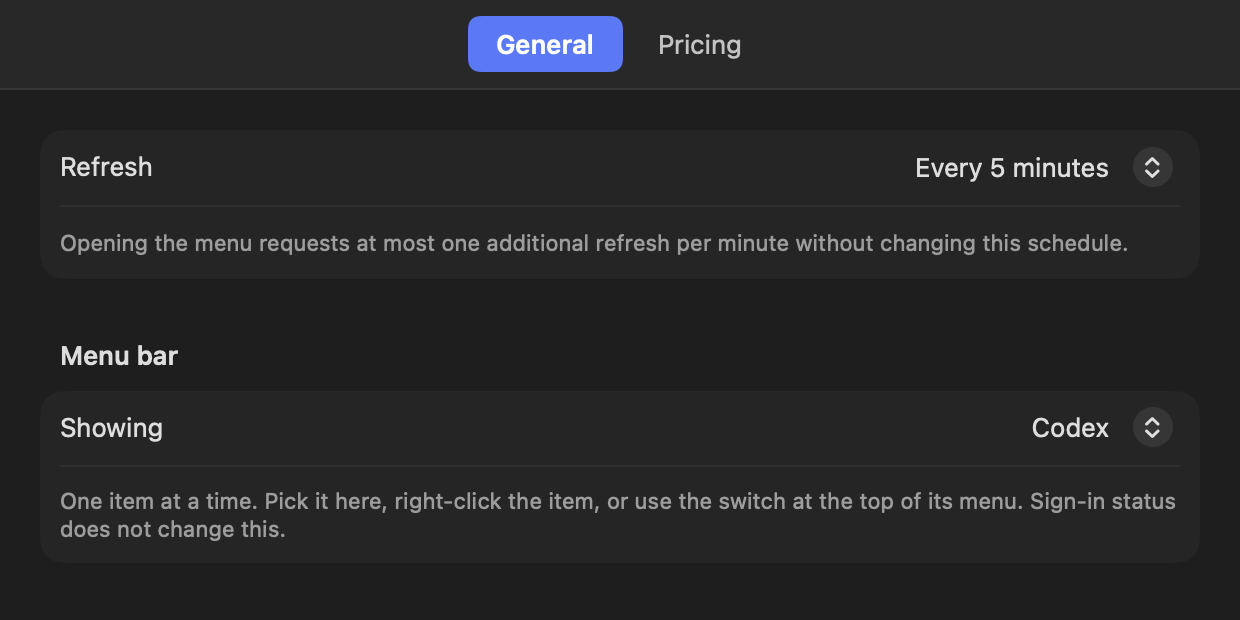
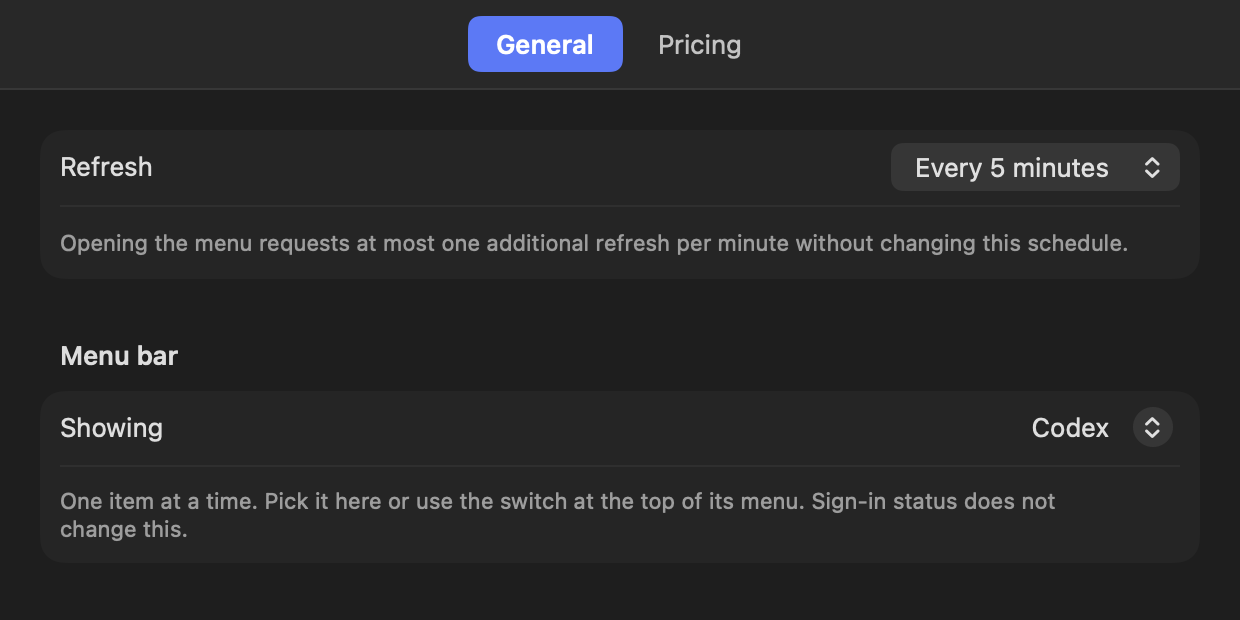
docs: drop the right-click switch and re-render the provider switch

Changed region(s): [[0.3065, 0.7968, 0.95, 0.8274], [0.0613, 0.8274, 0.2145, 0.8887]]

diff --git a/README.md b/README.md
@@ -86,8 +86,8 @@ claude
 
 Then open QuotaBar:
 
-- Left-click the menu bar icon to view quota and local cost.
-- Switch between Codex and Claude from the top of the menu, or right-click the icon. Each side of the switch shows that provider's lowest remaining percentage. The number for the provider you are not viewing comes from its last refresh.
+- Click the menu bar icon to view quota and local cost.
+- Switch between Codex and Claude from the top of the menu. Each side of the switch shows that provider's lowest remaining percentage. The number for the provider you are not viewing comes from its last refresh.
 - Open **Settings** to choose a refresh interval or edit model rates.
 
 Reading Claude credentials may trigger a macOS Keychain prompt. If a manual `Refresh` receives HTTP 401, QuotaBar lets Claude Code attempt one short credential refresh. Automatic refreshes never start Claude Code.

diff --git a/README.zh-CN.md b/README.zh-CN.md
@@ -86,8 +86,8 @@ claude
 
 然后打开 QuotaBar：
 
-- 左键点击菜单栏图标，查看额度与本地成本。
-- 在菜单顶部切换 Codex 和 Claude，或者右键点击图标。切换按钮上显示每家剩余最少的那个窗口的百分比。当前没显示的那家，数字来自它上一次刷新。
+- 点击菜单栏图标，查看额度与本地成本。
+- 在菜单顶部切换 Codex 和 Claude。切换按钮上显示每家剩余最少的那个窗口的百分比。当前没显示的那家，数字来自它上一次刷新。
 - 打开 **Settings**，修改刷新间隔或模型费率。
 
 读取 Claude 凭据时，macOS 可能弹出 Keychain 授权提示。如果手动 `Refresh` 收到 HTTP 401，QuotaBar 会让 Claude Code 尝试一次短时凭据刷新。自动刷新不会启动 Claude Code。
